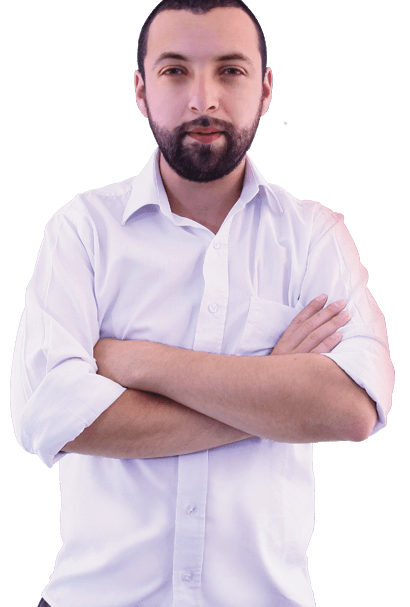
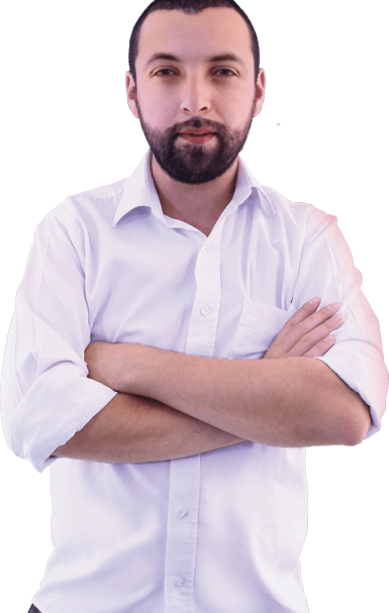
Version 0.2
Sin resposive.. Corrección de errores menores

diff --git a/css/main.css b/css/main.css
@@ -1,1 +1,1 @@
-*{webkit-transition:ease-out .3s;-moz-transition:ease-out .3s;-o-transition:ease-out .3s;transition:ease-out .3s}a{color:#000;text-decoration:none}body{font-size:16px;font-family:roboto;height:100%}h1,h2,h5,p{position:relative;margin:0}h2,h3,h4{font-family:roboto}h1{color:#dd1834;font-family:Anton,sans-serif;font-size:5.1em;text-transform:uppercase;padding:.8em 0 0 0;text-align:center;text-shadow:0 1px 0 rgba(0,0,0,0.75)}h2{color:#dd1834;font-size:1.5em;font-weight:300;top:-.5em;text-align:center;margin:0 0 3em 0;text-shadow:0 1px 0 rgba(0,0,0,0.75)}h4{font-size:1.2em}h5{background:transparent;font-size:1.05em;top:-25px;font-weight:300}header{background:url("../img/bg2.jpg") #000 no-repeat center fixed;background-position-y:0;background-size:cover;height:100%;min-height:616px;padding:2em 0;}header figure{margin:4em auto 0;width:51%}header .cinturones{background:#fff;height:43px;width:409px;position:absolute;display:inline-block;z-index:5;top:519px;}header .cinturones:last-child{right:0;width:420px}header .barra{background:#dd1834;height:4px;width:16px;display:inline-block;top:-5px;margin-right:1em;position:relative;box-shadow:0 1px 0 rgba(0,0,0,0.75);}header .barra:last-child{margin-right:0;margin-left:1em}footer{background:#c3152e;padding:1.5em 0 .5em 0;text-align:center}p{top:-1em;margin-bottom:1em;font-size:.86em;font-size:16px}#andrea{background:no-repeat,-o-linear-gradient(#949ba5 0%,#bec3c9 100%);background:no-repeat,-webkit-linear-gradient(#949ba5 0%,#bec3c9 100%);background:no-repeat,linear-gradient(-180deg,#949ba5 0%,#bec3c9 100%);height:608px;position:relative;}#andrea aside{position:relative;top:1em;}#andrea aside ul{list-style-type:none;margin:0;padding:0 0 0 .6em;border-left:2px solid #9b9b9b;}#andrea aside ul li{margin:0;font-size:22px;}#andrea aside ul li span{color:#dd1834;font-family:roboto;font-size:22px;font-weight:700;text-transform:uppercase}#andrea aside ul .fecha{color:rgba(0,0,0,0.75);font-weight:300;padding:0 0 .6em 1.2em;margin-top:-.4em;font-size:16px}#andrea article{float:right;width:49%;}#andrea article h4,#andrea article h5{font-family:helvetica,arial,sans-serif}#andrea article h4{margin-top:6.2em}#andrea article p{font-family:helvetica,arial,sans-serif;width:100%;margin-top:1em}#andrea figure{float:left;margin:0;position:relative;top:1px}#andres{background-image:-webkit-linear-gradient(#e41936 0%,#dd1834 53%,#c3152e 100%);background-image:-o-linear-gradient(#e41936 0%,#dd1834 53%,#c3152e 100%);background-image:linear-gradient(#e41936 0%,#dd1834 53%,#c3152e 100%);height:607px;position:relative;}#andres article{float:right;width:49%;}#andres article p{width:92%}#andres div .bajador{right:3em;position:absolute;top:25em}#andres figure{float:left;margin-right:1em;position:absolute}#andres h4{margin-top:4.5em}#info{background:#fff;padding:2em 0 1em;box-shadow:0 3px 0 rgba(0,0,0,0.75);}#info p{color:#dd1834}#willi{background:#e2e2e4;height:603px;}#willi article{padding:3em 0;text-align:right;width:42%}#willi figure{float:right;margin-right:2em;overflow:hidden;position:relative;vertical-align:bottom}.webtour{color:#fff;font-size:1.8em;font-weight:300;margin:0 auto;padding:1em 0 0;text-align:center;width:80%}.contenedor{max-width:960px;margin:0 auto;position:relative}.clear{clear:both}
+*{webkit-transition:ease-out .3s;-moz-transition:ease-out .3s;-o-transition:ease-out .3s;transition:ease-out .3s}a{color:#000;text-decoration:none}body{font-size:16px;font-family:roboto;height:100%}footer{background:#000;padding:1em 0 2em;height:50px;position:absolute;width:100%;}footer a{border:2px solid #fff;border-radius:3pc;color:#fff;display:block;margin:0 auto;padding:1em;position:relative;text-align:center;top:.5em;width:30%;}footer a:hover{background:#dd1834;border:2px solid #dd1834}h1,h2,h5,p{position:relative;margin:0}h2,h3,h4{font-family:roboto}h1{color:#dd1834;font-family:Anton,sans-serif;font-size:5.1em;text-transform:uppercase;padding:.8em 0 0 0;text-align:center;text-shadow:0 1px 0 rgba(0,0,0,0.75)}h2{color:#dd1834;font-size:1.5em;font-weight:300;top:-.5em;text-align:center;margin:0 0 3em 0;text-shadow:0 1px 0 rgba(0,0,0,0.75)}h4{font-size:1.2em}h5{background:transparent;font-size:1.05em;top:-25px;font-weight:300}header{background:url("../img/bg2.jpg") #000 no-repeat center fixed;background-position-y:0;background-size:cover;height:100%;min-height:616px;padding:2em 0;}header figure{margin:4em auto 0;width:51%}header .cinturones{background:#fff;height:43px;width:32%;position:absolute;display:inline-block;z-index:5;top:519px;}header .cinturones:last-child{right:0;width:33%}header .barra{background:#dd1834;height:4px;width:16px;display:inline-block;top:-5px;margin-right:1em;position:relative;box-shadow:0 1px 0 rgba(0,0,0,0.75);}header .barra:last-child{margin-right:0;margin-left:1em}p{top:-1em;margin-bottom:1em;font-size:.86em;font-size:16px}#andrea{background:no-repeat,-o-linear-gradient(#949ba5 0%,#bec3c9 100%);background:no-repeat,-webkit-linear-gradient(#949ba5 0%,#bec3c9 100%);background:no-repeat,linear-gradient(-180deg,#949ba5 0%,#bec3c9 100%);height:608px;position:relative;}#andrea aside{position:relative;top:1em;}#andrea aside ul{list-style-type:none;margin:0;padding:0 0 0 .6em;border-left:2px solid #9b9b9b;}#andrea aside ul li{margin:0;font-size:22px;}#andrea aside ul li span{color:#dd1834;font-family:roboto;font-size:22px;font-weight:700;text-transform:uppercase}#andrea aside ul .fecha{color:rgba(0,0,0,0.75);font-weight:300;padding:0 0 .6em 1.2em;margin-top:-.4em;font-size:16px}#andrea article{float:right;width:49%;}#andrea article h4,#andrea article h5{font-family:helvetica,arial,sans-serif}#andrea article h4{margin-top:6.2em}#andrea article p{font-family:helvetica,arial,sans-serif;width:100%;margin-top:1em}#andrea figure{float:left;margin:0;position:relative;top:1px}#andres{background-image:-webkit-linear-gradient(#e41936 0%,#dd1834 53%,#c3152e 100%);background-image:-o-linear-gradient(#e41936 0%,#dd1834 53%,#c3152e 100%);background-image:linear-gradient(#e41936 0%,#dd1834 53%,#c3152e 100%);height:613px;position:relative;width:100%;}#andres article{float:right;width:49%;}#andres article p{width:92%}#andres div .bajador{right:3em;position:absolute;top:25em}#andres figure{float:left;margin-right:1em;position:absolute}#andres h4{margin-top:4.5em}#info{background-image:-webkit-linear-gradient(#e41936 0%,#dd1834 53%,#c3152e 100%);background-image:-o-linear-gradient(#e41936 0%,#dd1834 53%,#c3152e 100%);background-image:linear-gradient(#e41936 0%,#dd1834 53%,#c3152e 100%);padding:2em 0 1em;box-shadow:0 3px 0 rgba(0,0,0,0.75);}#info p{color:#fff}#willi{background:#e2e2e4;height:430px;}#willi article{padding:3em 0;text-align:right;width:42%}#willi figure{float:right;margin-right:2em;overflow:hidden;position:relative;vertical-align:bottom;top:-3px}.webtour{color:#fff;font-size:1.8em;font-weight:300;margin:0 auto;padding:1em 0 0;text-align:center;width:80%}.contenedor{max-width:960px;margin:0 auto;position:relative}.clear{clear:both}@media (max-width:540px){img{height:80%}.contenedor{max-width:500px}}

diff --git a/index.html b/index.html
@@ -33,13 +33,11 @@
 		</figure>
 		
 	</div>
-	<div class="cinturones"></div>
-	<div class="cinturones"></div>
 
 </header>
 <section id="info">
 	<div class="contenedor">
-		<p class="webtour">Estaremos en distintas ciudades latinoamericanas enseñándole a directores de marketing, dueños de negocio y emprendedores sobre el potencial del <strong>marketing digital.</strong></p>
+		<p class="webtour">Estaremos en distintas ciudades latinoamericanas enseñándole a directores de marketing, dueños de negocio y emprendedores sobre el potencial del <strong>marketing digital.</strong> sin costo algúno.</p>
 
 	</div>
 </section>
@@ -75,14 +73,14 @@
 </section>
 
 <section id="willi">
-		<figure>
-			<img src="img/willi.png" alt="willi-la-ballena">
-		</figure>
 	<div class="contenedor">
+		<figure>
+			<img src="img/willi2.png" alt="willi-la-ballena">
+		</figure>
 		<article>
 			<h4>William Bernal</h4>
 			<h5><a href="http://twitter.com/willibernals" target="_blank">@willibernals</a></h5>
-			<p>Director creativo de Slim Brands & Partners. Gerente de Publicidad de la Universidad Jorge Tadeo Lozano, ha dirigido durante nueve años las campañas de grandes marcas a nivel Colombia, una experiencia importante para encabezar campañas capaces de sorprender, impactar y, sobre todo, lograr plenamente los objetivos del cliente.</p>
+			<p>Director creativo de Slim Brands & Partners. Gerente de Publicidad de la Universidad Jorge Tadeo Lozano, ha dirigido durante nueve años las campañas de grandes marcas a nivel Colombia, una experiencia importante para encabezar campañas capaces de sorprender, impactar y sobre todo, lograr plenamente los objetivos del cliente.</p>
 		</article>
 	</div>
 </section>
@@ -105,7 +103,11 @@
 	</div>
 </section>
 
-
+<footer>
+	<div class="contenedor">
+		<a href="https://inmediaco.wufoo.eu/forms/webtour-2015/">QUIERO PARTICIPAR</a>
+	</div>
+</footer>
 
 <!-- analytics -->
 <script>
